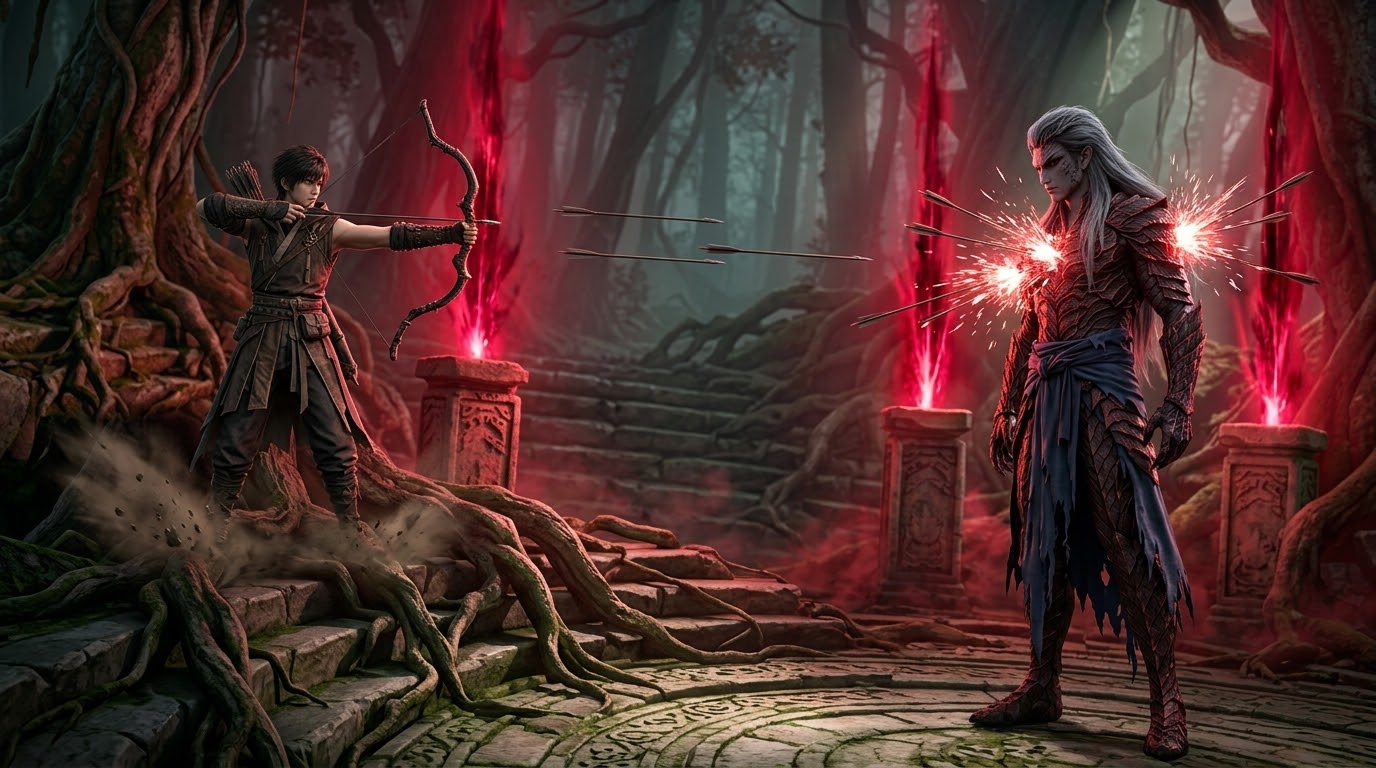
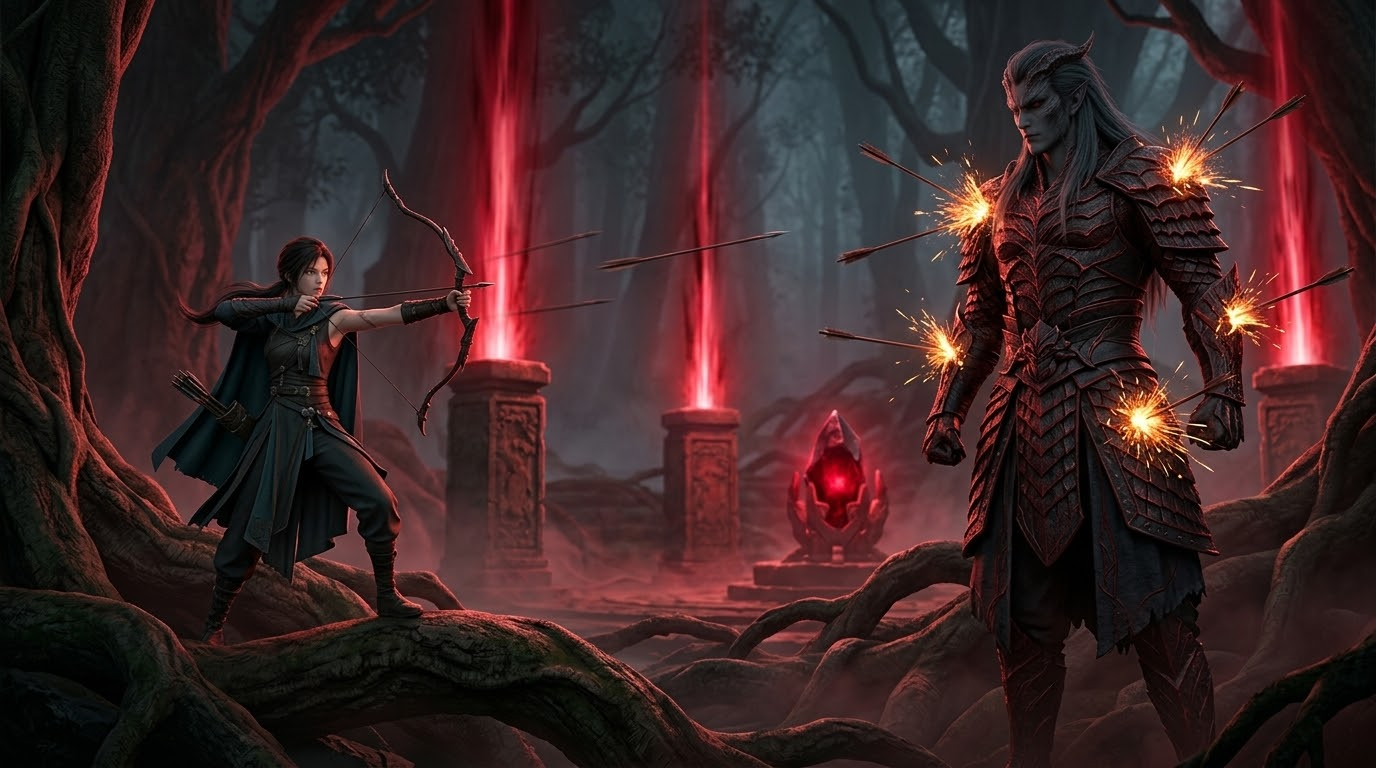
第 12 場新圖完成：S12 机遙近景、B04 f2／B09 f1 厲若楓女版重出通過；B09 裁切依新圖重定
Claude-Session: https://claude.ai/code/session_017YfYk6Rqfgdxwz4BghZYcX

diff --git a/production/LF01/storyboard/scene12_shotlist_v2.md b/production/LF01/storyboard/scene12_shotlist_v2.md
@@ -1,6 +1,6 @@
 # 第 12 場鏡頭表 v2（先分鏡、後配音）
 
-> 2026-10-04。39 個鏡頭、44 句台詞（原 17 格）。需新出圖 5 張＋重出 2 張（B04 f2、B09 f1：厲若楓改女版），其餘從現有分鏡圖裁切推近。
+> 2026-10-04。39 個鏡頭、44 句台詞（原 17 格）。需新出圖 5 張＋重出 2 張（B04 f2、B09 f1：厲若楓改女版）——**2026-10-05 全部完成**，其餘從現有分鏡圖裁切推近。
 > 欄位：情緒／音量（低、中、吼）／速度；「停」＝說之前停幾秒；「搶」＝跟上一句重疊幾秒。資料檔 `scene12_shots.json`，動態分鏡程式直接讀它。
 
 | 鏡 | 畫面 | 景別／運鏡 | 台詞（情緒／音量／速度／停） | 音效 |
@@ -23,7 +23,7 @@
 | S16 | B03/f2 | 中景／Static | **机遙**「齊衡烈！」（驚／吼／快／停0.3） | 無形衝擊、石板翻起 |
 | S17 | B03/f2 裁切 | 近景／Static | **齊衡烈**「……什麼鬼力氣。」（痛／低／中／停0.5） | 咳嗽 |
 | S18 | B04/f1 | 中景／Static | **郁岑燁**「牠在等我出手。」（咬牙／中／快／停0.35） | 急煞、沙土 |
-| S19 | B04/f2<br>⚠畫面厲若楓為舊男版，待重出 | 中景／Static | （無台詞） | 三箭連發、彈開的金屬聲 |
+| S19 | B04/f2 | 中景／Static | （無台詞） | 三箭連發、彈開的金屬聲 |
 | S20 | 沿用 S07 | 近景／Push In | **厲若楓**「牠抬手之前，左肩會先沉。」（冷靜／低／快／停0.3） |  |
 | S21 | B05/f1 | 中景／Static | **聞人澈**「撐不了多久……誰去把陣點斷掉！」（痛／吼／快／停0.35） | 法陣嗡鳴、衝擊 |
 | S22 | B05/f2 | 中景／Static | **江祈璟**「我左邊，你右邊。」（冷／中／快／停0.2）<br>**机遙**「你不是一直不服我？」（半笑／中／中／停0.3） |  |
@@ -37,10 +37,10 @@
 | S30 | B07/f2 | 全景／Static | **聞人澈**「……牠停手了？」（喘／低／慢／停1.2）<br>**郁岑燁**「……不是我們擋住了牠。」（冷／低／慢／停0.8） | 光柱一根根熄滅；配樂抽掉 |
 | S31 | B08/f1 | 中景／Push In | **赤瞳妖將**「這裡不是你們該來的地方。」（低沉／低／慢／停1.0） |  |
 | S32 | B08/f2 | 全景／Static | （無台詞） | 風聲、霧合攏 |
-| S33 | B09/f1<br>⚠畫面厲若楓為舊男版，待重出 | 全景／Static | **齊衡烈**「……停不下來。」（乾笑／低／慢／停2.0）<br>**郁岑燁**「那就抖著走回去。」（冷／中／中／停0.6） | 遠處鳥叫回來 |
-| S34 | B09/f1 裁切<br>⚠B09 f1 重出後重定裁切 | 近景／Static | **齊衡烈**「下次……下次我先砍牠的腳。」（笑／中／中／停0.3） |  |
-| S35 | B09/f1 裁切<br>⚠B09 f1 重出後重定裁切 | 近景／Static | **聞人澈**「下次你先跑。」（輕笑／低／中／停0.3） |  |
-| S36 | B09/f1 裁切<br>⚠B09 f1 重出後重定裁切 | 近景／Static | **江祈璟**「剛才那一刀，還行。」（冷／低／中／停0.8） |  |
-| S37 | B09/f1 裁切<br>⚠B09 f1 重出後重定裁切 | 近景／Static | **机遙**「……你在誇我？」（愣／中／中／停0.4） |  |
-| S38 | B09/f1 裁切<br>⚠B09 f1 重出後重定裁切 | 近景／Static | **江祈璟**「沒有。」（冷／低／快／停0.2） |  |
+| S33 | B09/f1 | 全景／Static | **齊衡烈**「……停不下來。」（乾笑／低／慢／停2.0）<br>**郁岑燁**「那就抖著走回去。」（冷／中／中／停0.6） | 遠處鳥叫回來 |
+| S34 | B09/f1 裁切 | 近景／Static | **齊衡烈**「下次……下次我先砍牠的腳。」（笑／中／中／停0.3） |  |
+| S35 | B09/f1 裁切 | 近景／Static | **聞人澈**「下次你先跑。」（輕笑／低／中／停0.3） |  |
+| S36 | B09/f1 裁切 | 近景／Static | **江祈璟**「剛才那一刀，還行。」（冷／低／中／停0.8） |  |
+| S37 | B09/f1 裁切 | 近景／Static | **机遙**「……你在誇我？」（愣／中／中／停0.4） |  |
+| S38 | B09/f1 裁切 | 近景／Static | **江祈璟**「沒有。」（冷／低／快／停0.2） |  |
 | S39 | B08/f1 裁切 | 近景／Push In | **机遙（心聲）**「牠說「你們也」。……所以在我們之前，也有人聽見過。」（沉思／低／慢／停0.8） | 風 |
